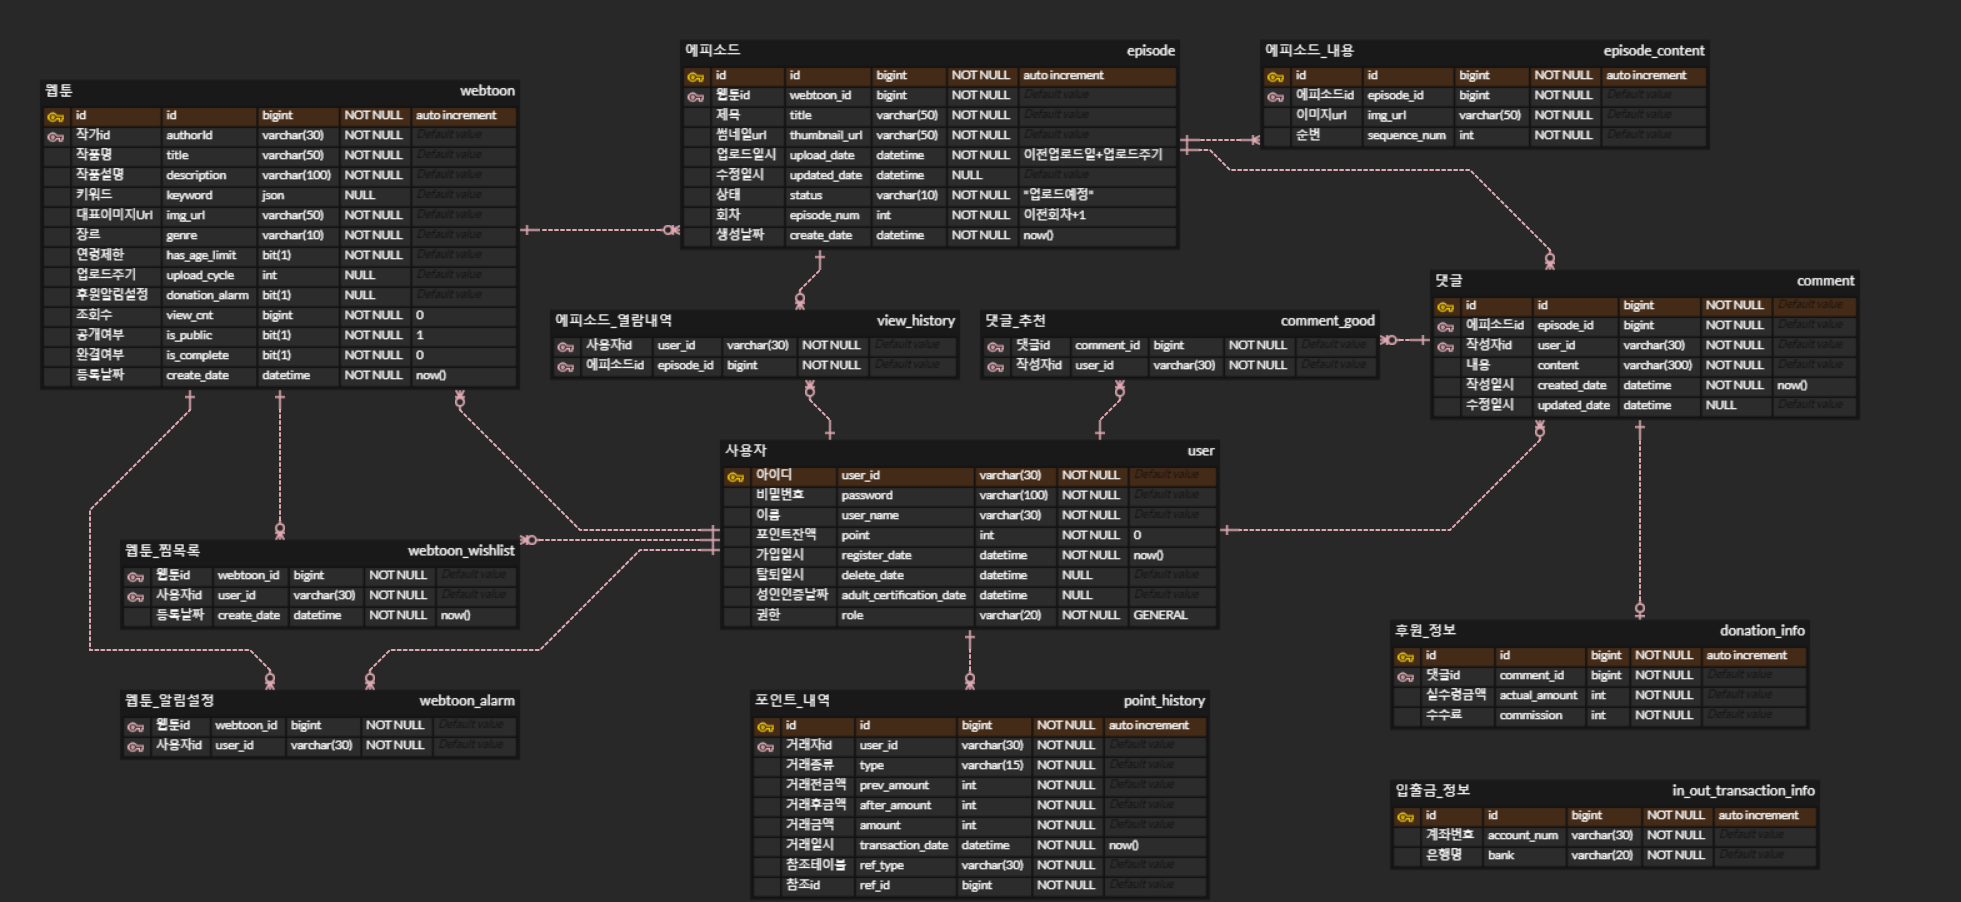
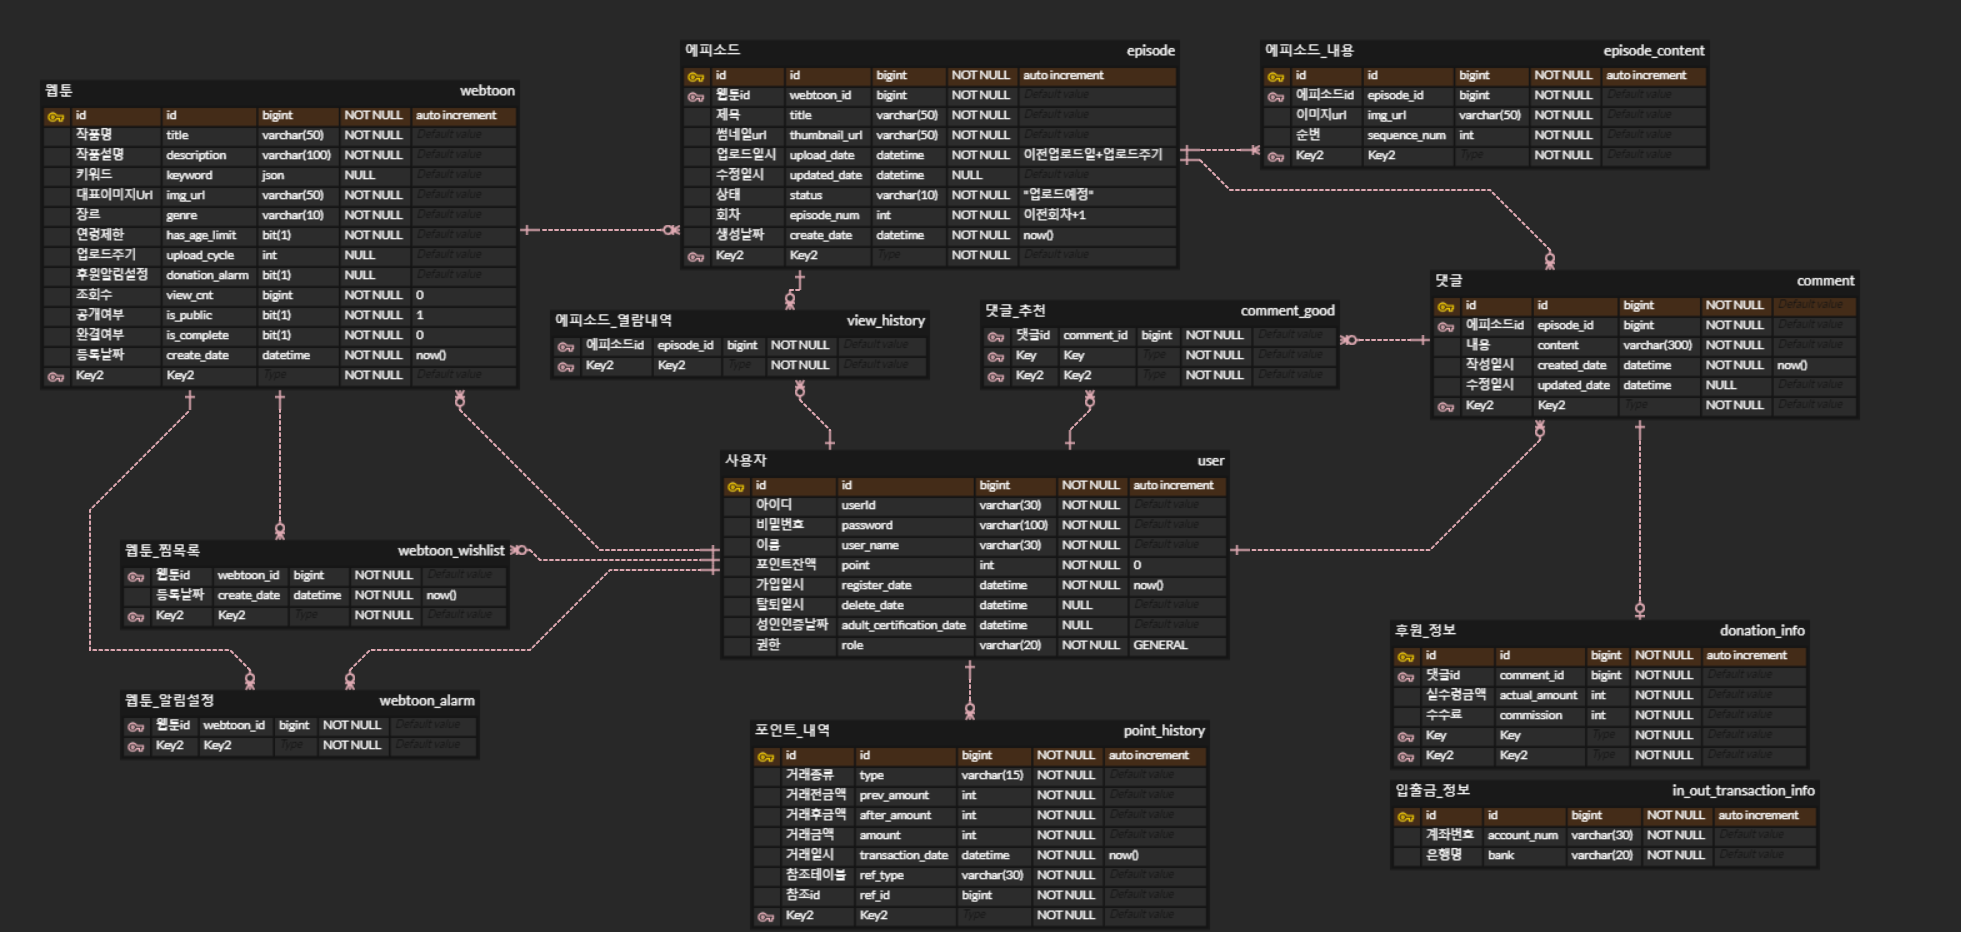
fix: dto isAdult 변수명 수정 + 피드백 반영
json body가 dto로 오면서 key 이름의 is가 사라져서 변수의 이름을 수정해주었다.
- Entity 타입 Date, Enum 으로 수정
- primary key ID를 새로 추가

diff --git a/src/main/java/com/yo/webtoon/model/entity/UserEntity.java b/src/main/java/com/yo/webtoon/model/entity/UserEntity.java
@@ -4,8 +4,13 @@ import com.yo.webtoon.model.constant.Role;
 import com.yo.webtoon.model.dto.UserDto;
 import jakarta.persistence.Entity;
 import jakarta.persistence.EntityListeners;
+import jakarta.persistence.EnumType;
+import jakarta.persistence.Enumerated;
+import jakarta.persistence.GeneratedValue;
+import jakarta.persistence.GenerationType;
 import jakarta.persistence.Id;
 import jakarta.persistence.Table;
+import java.time.LocalDate;
 import java.time.LocalDateTime;
 import java.util.Collection;
 import java.util.List;
@@ -31,20 +36,23 @@ import org.springframework.security.core.userdetails.UserDetails;
 public class UserEntity implements UserDetails {
 
     @Id
+    @GeneratedValue(strategy = GenerationType.IDENTITY)
+    private Long id;
     private String userId;
     private String password;
     private String userName;
     @Builder.Default
     private int point = 0;
     @CreatedDate
-    private LocalDateTime registerDate;
-    private LocalDateTime deleteDate;
-    private LocalDateTime adultCertificationDate;
-    private String role;
+    private LocalDateTime registerDatetime;
+    private LocalDateTime deleteDatetime;
+    private LocalDate adultCertificationDate;
+    @Enumerated(value = EnumType.STRING)
+    private Role role;
 
     @Override
     public Collection<? extends GrantedAuthority> getAuthorities() {
-        return List.of(new SimpleGrantedAuthority(role));
+        return List.of(new SimpleGrantedAuthority(role.name()));
     }
 
     @Override
@@ -59,7 +67,7 @@ public class UserEntity implements UserDetails {
 
     @Override
     public boolean isEnabled() {
-        return deleteDate == null;
+        return deleteDatetime == null;
     }
 
     public static UserEntity toEntity(UserDto.SignUp userDto) {
@@ -67,8 +75,8 @@ public class UserEntity implements UserDetails {
             .userId(userDto.getUserId())
             .password(userDto.getPassword())
             .userName(userDto.getUserName())
-            .adultCertificationDate((userDto.isAdult()) ? LocalDateTime.now() : null)
-            .role((userDto.getRole() == null) ? Role.ROLE_GENERAL.name() : userDto.getRole())
+            .adultCertificationDate((userDto.isAdult()) ? LocalDate.now() : null)
+            .role((userDto.getRole() == null) ? Role.ROLE_GENERAL : Role.valueOf(userDto.getRole()))
             .build();
     }
 }

diff --git a/src/main/java/com/yo/webtoon/service/UserService.java b/src/main/java/com/yo/webtoon/service/UserService.java
@@ -18,16 +18,16 @@ public class UserService implements UserDetailsService {
     private final PasswordEncoder passwordEncoder;
 
     @Override
-    public UserEntity loadUserByUsername(String username) throws UsernameNotFoundException {
-        return userRepository.findById(username)
-            .orElseThrow(() -> new UsernameNotFoundException("User ID Not found -> " + username));
+    public UserEntity loadUserByUsername(String userId) throws UsernameNotFoundException {
+        return userRepository.findByUserId(userId)
+            .orElseThrow(() -> new UsernameNotFoundException("User ID Not found -> " + userId));
     }
 
     /**
      * 회원가입 :: userId 중복체크 후, userEntity에 추가한다.
      */
     public void signUp(UserDto.SignUp signUpInfo) {
-        if (userRepository.existsById(signUpInfo.getUserId())) {
+        if (userRepository.existsByUserId(signUpInfo.getUserId())) {
             throw new RuntimeException("already exists ID -> " + signUpInfo.getUserId());
         }
 
@@ -41,13 +41,13 @@ public class UserService implements UserDetailsService {
      * 아이디/비밀번호 검증 :: 로그인을 위해 일치하는 아이디, 비밀번호가 있는지 검증한 후, 아이디와 권한을 리턴한다.
      */
     public UserDto.Authorization authenticate(UserDto.Login loginInfo) {
-        UserEntity userEntity = userRepository.findById(loginInfo.getUserId())
+        UserEntity userEntity = userRepository.findByUserId(loginInfo.getUserId())
             .orElseThrow(() -> new RuntimeException("failed login"));
 
         if (!passwordEncoder.matches(loginInfo.getPassword(), userEntity.getPassword())) {
             throw new RuntimeException("failed login");
         }
 
-        return new Authorization(userEntity.getUserId(), userEntity.getRole());
+        return new Authorization(userEntity.getUserId(), userEntity.getRole().name());
     }
 }

diff --git a/src/main/java/com/yo/webtoon/model/dto/UserDto.java b/src/main/java/com/yo/webtoon/model/dto/UserDto.java
@@ -3,6 +3,7 @@ package com.yo.webtoon.model.dto;
 import jakarta.validation.constraints.NotBlank;
 import jakarta.validation.constraints.Size;
 import lombok.AllArgsConstructor;
+import lombok.Builder;
 import lombok.Getter;
 import lombok.NoArgsConstructor;
 import lombok.Setter;
@@ -11,6 +12,9 @@ public class UserDto {
 
     @Getter
     @Setter
+    @Builder
+    @AllArgsConstructor
+    @NoArgsConstructor
     public static class SignUp {
 
         @NotBlank(message = "아이디를 입력해주세요.")
@@ -19,12 +23,15 @@ public class UserDto {
         private String password;
         @NotBlank(message = "이름을 입력해주세요.")
         private String userName;
-        private boolean isAdult;
+        private boolean adult;
         private String role;
     }
 
     @Getter
     @Setter
+    @Builder
+    @AllArgsConstructor
+    @NoArgsConstructor
     public static class Login {
 
         @NotBlank(message = "아이디를 입력해주세요.")

diff --git a/src/main/java/com/yo/webtoon/repository/UserRepository.java b/src/main/java/com/yo/webtoon/repository/UserRepository.java
@@ -1,10 +1,14 @@
 package com.yo.webtoon.repository;
 
 import com.yo.webtoon.model.entity.UserEntity;
+import java.util.Optional;
 import org.springframework.data.jpa.repository.JpaRepository;
 import org.springframework.stereotype.Repository;
 
 @Repository
-public interface UserRepository extends JpaRepository<UserEntity, String> {
+public interface UserRepository extends JpaRepository<UserEntity, Long> {
 
+    Optional<UserEntity> findByUserId(String userId);
+
+    boolean existsByUserId(String userId);
 }
